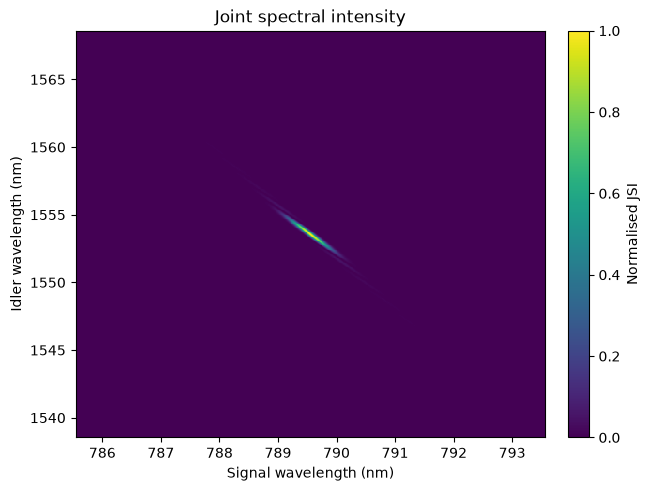
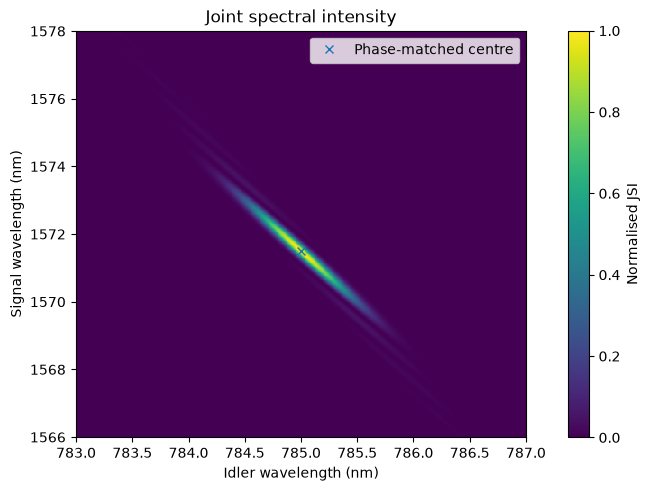
updated jsi example

diff --git a/examples/joint_spectral_intensity.py b/examples/joint_spectral_intensity.py
@@ -1,10 +1,16 @@
 """
-Calculate and plot the joint spectral intensity of an SPDC source.
+Calculate the joint spectral intensity of an SPDC source.
 
-Unlike the one-dimensional phase-matching spectrum, the JSI includes
-both the finite pump spectrum and the crystal phase-matching function.
-The result shows the spectral correlations between the generated
-signal and idler photons.
+This example models a non-degenerate type-0 SPDC source using a
+20 mm, 5% MgO-doped periodically poled lithium niobate crystal.
+
+The source is pumped at 523.5 nm and is phase matched for photon pairs
+near 785 nm and 1572 nm. The crystal propagation angle required for
+phase matching is calculated before evaluating the joint spectral
+amplitude.
+
+The joint spectral intensity (JSI) is then plotted as a function of
+signal and idler wavelength.
 """
 
 import pathlib
@@ -12,60 +18,98 @@ import pathlib
 import matplotlib.pyplot as plt
 import numpy as np
 
-from qtoolkit.spdc.materials import (
+from qtoolkit.spdc import (
     MgOLithiumNiobate,
     RefractiveIndexAxis,
-)
-from qtoolkit.spdc.phasematching import (
-    find_phase_matching_wavelength_pairs,
-)
-from qtoolkit.spdc.spectral import (
+    conjugate_wavelength,
+    find_phase_matching_angle,
     joint_spectral_amplitude,
     joint_spectral_intensity,
+    pump_wavelength_fwhm_to_angular_frequency_std,
 )
 
 
 def main() -> None:
     material = MgOLithiumNiobate()
+    axis = RefractiveIndexAxis.EXTRAORDINARY
 
+    # Source parameters.
     pump_wavelength = 523.5e-9
-    temperature = 84.0
-    poling_period = 7.15e-6
+    pump_wavelength_fwhm = 92e-12
+
     crystal_length = 20e-3
+    temperature = 84.0
 
-    # Gaussian pump amplitude bandwidth in rad/s.
-    pump_bandwidth_std = 2.5e11
+    # Poling period at the 19 degrees Celsius reference temperature
+    # used by qtoolkit's thermal-expansion model.
+    poling_period = 7.15e-6
 
-    pairs = find_phase_matching_wavelength_pairs(
+    # Type-0 e -> e + e SPDC is considered.
+    #
+    # Specify the short-wavelength photon and determine its
+    # energy-conserving conjugate.
+    idler_centre = 785e-9
+
+    signal_centre = conjugate_wavelength(
+        pump_wavelength,
+        idler_centre,
+    )
+
+    # Determine the common propagation angle that satisfies the
+    # quasi-phase-matching condition at the central wavelengths.
+    angle = find_phase_matching_angle(
         pump_wavelength=pump_wavelength,
+        signal_wavelength=signal_centre,
+        idler_wavelength=idler_centre,
         temperature=temperature,
         poling_period=poling_period,
         material=material,
-        pump_axis=RefractiveIndexAxis.EXTRAORDINARY,
-        signal_axis=RefractiveIndexAxis.EXTRAORDINARY,
-        idler_axis=RefractiveIndexAxis.EXTRAORDINARY,
-        signal_wavelength_bounds=(700e-9,2e-6)
+        pump_axis=axis,
+        signal_axis=axis,
+        idler_axis=axis,
     )
 
-    signal_centre, idler_centre = pairs[0]
+    print(
+        'Central wavelengths: '
+        f'{idler_centre * 1e9:.3f} nm, '
+        f'{signal_centre * 1e9:.3f} nm'
+    )
+
+    print(
+        'Phase-matching angle: '
+        f'{np.rad2deg(angle):.6f} degrees'
+    )
+
+    # Convert the measured pump intensity FWHM in wavelength to the
+    # angular-frequency amplitude standard deviation expected by the
+    # JSA calculation.
+    pump_bandwidth_std = (
+        pump_wavelength_fwhm_to_angular_frequency_std(
+            pump_wavelength,
+            pump_wavelength_fwhm,
+        )
+    )
+
+    # Spectral ranges surrounding the phase-matched wavelengths.
+    idler_wavelengths = np.linspace(
+        783e-9,
+        787e-9,
+        500,
+    )
 
     signal_wavelengths = np.linspace(
-        signal_centre - 4e-9,
-        signal_centre + 4e-9,
+        1566e-9,
+        1578e-9,
         500,
     )
 
-    idler_wavelengths = np.linspace(
-        idler_centre - 15e-9,
-        idler_centre + 15e-9,
-        500,
-    )
-
-    signal_grid, idler_grid = np.meshgrid(
-        signal_wavelengths,
+    idler_grid, signal_grid = np.meshgrid(
         idler_wavelengths,
+        signal_wavelengths,
+        indexing='xy',
     )
 
+    # Calculate the joint spectral amplitude.
     jsa = joint_spectral_amplitude(
         signal_wavelength=signal_grid,
         idler_wavelength=idler_grid,
@@ -75,39 +119,75 @@ def main() -> None:
         temperature=temperature,
         poling_period=poling_period,
         material=material,
-        pump_axis=RefractiveIndexAxis.EXTRAORDINARY,
-        signal_axis=RefractiveIndexAxis.EXTRAORDINARY,
-        idler_axis=RefractiveIndexAxis.EXTRAORDINARY,
+        pump_axis=axis,
+        signal_axis=axis,
+        idler_axis=axis,
+        pump_angle=angle,
+        signal_angle=angle,
+        idler_angle=angle,
     )
 
+    # The joint spectral intensity is |JSA|^2.
     jsi = joint_spectral_intensity(
         jsa
     )
 
+    # Normalise for plotting.
     jsi /= np.max(jsi)
 
+    # Find the location of the maximum as a simple numerical check.
+    maximum_index = np.unravel_index(
+        np.argmax(jsi),
+        jsi.shape,
+    )
+
+    peak_idler = (
+        idler_grid[maximum_index]
+    )
+
+    peak_signal = (
+        signal_grid[maximum_index]
+    )
+
+    print(
+        'JSI maximum: '
+        f'{peak_idler * 1e9:.3f} nm, '
+        f'{peak_signal * 1e9:.3f} nm'
+    )
+
+    # Plot the JSI.
     fig, ax = plt.subplots(
         constrained_layout=True,
     )
 
     image = ax.pcolormesh(
-        signal_wavelengths * 1e9,
         idler_wavelengths * 1e9,
+        signal_wavelengths * 1e9,
         jsi,
-        shading="auto",
+        shading='auto',
+    )
+
+    ax.plot(
+        idler_centre * 1e9,
+        signal_centre * 1e9,
+        marker='x',
+        linestyle='none',
+        label='Phase-matched centre',
     )
 
     ax.set(
-        xlabel="Signal wavelength (nm)",
-        ylabel="Idler wavelength (nm)",
-        title="Joint spectral intensity",
+        xlabel='Idler wavelength (nm)',
+        ylabel='Signal wavelength (nm)',
+        title='Joint spectral intensity',
     )
 
     fig.colorbar(
         image,
         ax=ax,
-        label="Normalised JSI",
+        label='Normalised JSI',
     )
+
+    ax.legend()
 
     plt.show()
     fig.savefig(
@@ -116,5 +196,5 @@ def main() -> None:
         bbox_inches='tight',
     )
 
-if __name__ == "__main__":
+if __name__ == '__main__':
     main()
